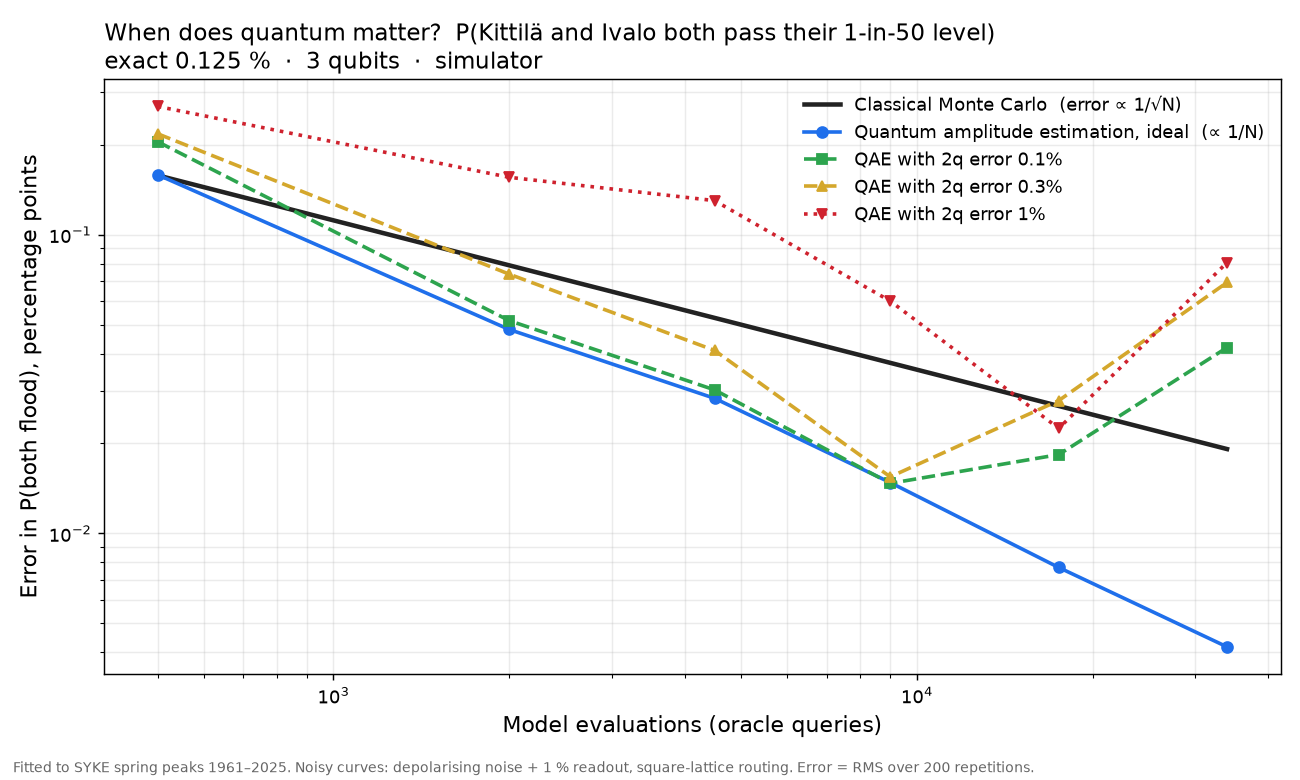
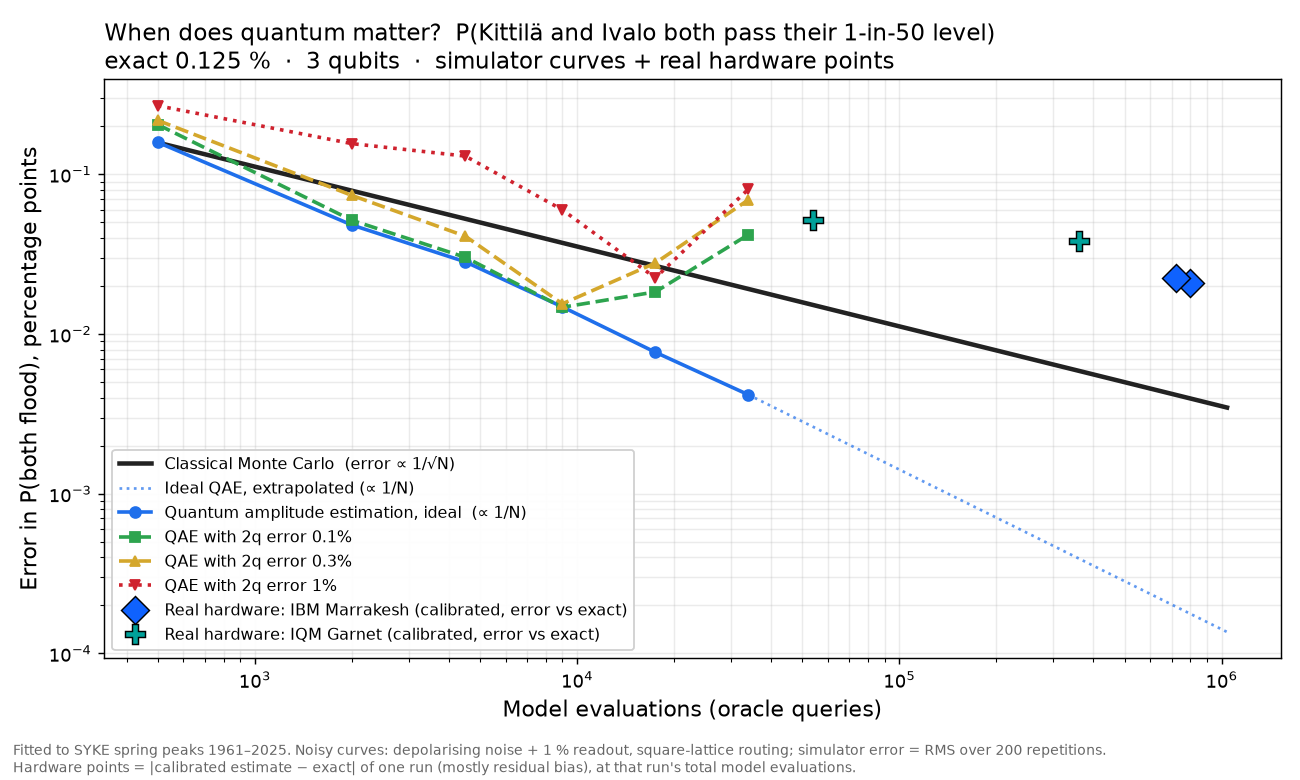
Scaling chart: real IBM/IQM hardware points vs Monte Carlo and ideal QAE extrapolation

diff --git a/scripts/qae_scaling.py b/scripts/qae_scaling.py
@@ -80,6 +80,11 @@ for label, p2 in [("ideal", None), ("2q error 0.1%", 0.001), ("2q error 0.3%", 0
     print(label, [(p["kmax"], f"{100*p['rmse']:.4f}pp") for p in pts], flush=True)
 
 qmax = max(p["queries"] for p in curves["ideal"])
+import glob as _g0  # noqa: E402
+for _f in _g0.glob(str(OUT / "runs" / "*.analysis.json")):
+    _a = json.loads(Path(_f).read_text()).get("A3_kittila_ivalo_both")
+    if _a and (Path(_f).name.startswith("ibm-ibm") or Path(_f).name.startswith("iqm-garnet")):
+        qmax = max(qmax, 1.3 * _a["oracle_queries"])
 mc = [{"queries": float(n), "rmse": float(np.sqrt(exact * (1 - exact) / n))} for n in np.geomspace(SHOTS, qmax, 20)]
 json.dump({"exact": exact, "shots_per_power": SHOTS, "two_qubit_gates_by_k_grid": gate_counts,
            "curves": curves, "monte_carlo": mc}, open(OUT / "qae_scaling.json", "w"), indent=2)
@@ -91,20 +96,45 @@ import matplotlib.pyplot as plt  # noqa: E402
 fig, ax = plt.subplots(figsize=(10, 6))
 ax.loglog([p["queries"] for p in mc], [100 * p["rmse"] for p in mc], color="#222", lw=2.5,
           label="Classical Monte Carlo  (error ∝ 1/√N)")
+_id = curves["ideal"][-1]
+_xs = np.geomspace(_id["queries"], qmax, 10)
+ax.loglog(_xs, 100 * _id["rmse"] * _id["queries"] / _xs, ":", color="#1f6feb", lw=1.5, alpha=0.7,
+          label="Ideal QAE, extrapolated (∝ 1/N)")
 styles = {"ideal": ("#1f6feb", "o-"), "2q error 0.1%": ("#2da44e", "s--"), "2q error 0.3%": ("#d4a72c", "^--"),
           "2q error 1%": ("#cf222e", "v:")}
 for lab, pts in curves.items():
     col, st = styles[lab]
     name = "Quantum amplitude estimation, ideal  (∝ 1/N)" if lab == "ideal" else f"QAE with {lab}"
     ax.loglog([p["queries"] for p in pts], [100 * p["rmse"] for p in pts], st, color=col, lw=2, ms=6, label=name)
+# real hardware points (Kittilä+Ivalo, calibrated estimate vs exact) from out/runs/*.analysis.json
+import glob as _glob  # noqa: E402
+hw_pts = []
+for f in sorted(_glob.glob(str(OUT / "runs" / "*.analysis.json"))):
+    name = Path(f).name
+    if not (name.startswith("ibm-ibm") or name.startswith("iqm-garnet") or name.startswith("iqm-emerald")):
+        continue
+    a3 = json.loads(Path(f).read_text()).get("A3_kittila_ivalo_both")
+    if not a3:
+        continue
+    est = a3.get("noise_aware_per_copy_mlae") or a3["noise_aware_mlae"]
+    vendor = "IBM" if name.startswith("ibm") else "IQM"
+    hw_pts.append((vendor, a3["oracle_queries"], abs(est - a3["exact"]), name))
+for vendor, mk, col in (("IBM", "D", "#0f62fe"), ("IQM", "P", "#00a19a")):
+    pts = [p for p in hw_pts if p[0] == vendor]
+    if pts:
+        ax.loglog([p[1] for p in pts], [100 * p[2] for p in pts], mk, color=col, ms=11, mec="black", mew=0.8,
+                  label=f"Real hardware: {'IBM Marrakesh' if vendor == 'IBM' else 'IQM Garnet'} (calibrated, error vs exact)")
+json.dump({"hardware_points": [{"vendor": v, "queries": int(qq), "abs_error": e, "run": n} for v, qq, e, n in hw_pts]},
+          open(OUT / "qae_scaling_hardware_points.json", "w"), indent=2)
 ax.set_xlabel("Model evaluations (oracle queries)", fontsize=12)
 ax.set_ylabel("Error in P(both flood), percentage points", fontsize=12)
 ax.set_title("When does quantum matter?  P(Kittilä and Ivalo both pass their 1-in-50 level)\n"
-             f"exact {100*exact:.3f} %  ·  3 qubits  ·  simulator", fontsize=13, loc="left")
+             f"exact {100*exact:.3f} %  ·  3 qubits  ·  simulator curves + real hardware points", fontsize=13, loc="left")
 ax.grid(True, which="both", alpha=0.25)
-ax.legend(fontsize=10, frameon=False)
+ax.legend(fontsize=9, frameon=True, framealpha=0.92, loc="lower left")
 fig.text(0.01, 0.01, "Fitted to SYKE spring peaks 1961–2025. Noisy curves: depolarising noise + 1 % readout, "
-         "square-lattice routing. Error = RMS over 200 repetitions.", fontsize=8, color="#666")
-fig.tight_layout(rect=(0, 0.03, 1, 1))
+         "square-lattice routing; simulator error = RMS over 200 repetitions.\nHardware points = |calibrated estimate − exact| of one run "
+         "(mostly residual bias), at that run's total model evaluations.", fontsize=8, color="#666")
+fig.tight_layout(rect=(0, 0.05, 1, 1))
 fig.savefig(OUT / "qae_scaling.png", dpi=130)
 print("saved out/qae_scaling.png; CZ by k:", gate_counts)

diff --git a/CLAIMS.md b/CLAIMS.md
@@ -109,3 +109,8 @@ the continuous model is the classical reference. The outlook shift uses the in-s
 - Web app line "5 areas at once 7× likelier than independence says": P(≥5 of 14 over 1-in-10) on IQM Emerald
   6.3 % vs independence 0.93 % = 6.8× (exact model 4.8 % = 5.2×; observed 7.7 % = 8.3×) · qae-iqm / exact ·
   out/runs/loader-iqm-emerald-*.json
+- "When does quantum matter" chart (out/qae_scaling.png): at the hardware runs' budgets (5×10⁴–8×10⁵ model
+  evaluations) classical Monte Carlo error is ~0.004–0.016 pp; the calibrated hardware estimates are off by
+  0.021–0.052 pp (IBM best 0.021, IQM 4-copy 0.038), so ~5–10× worse than classical today. Ideal QAE extrapolated
+  (1/N) would be ~0.0002 pp at 10⁶, i.e. ~25× better than Monte Carlo · qae-sim / qae-ibm / qae-iqm ·
+  scripts/qae_scaling.py, out/qae_scaling_hardware_points.json
